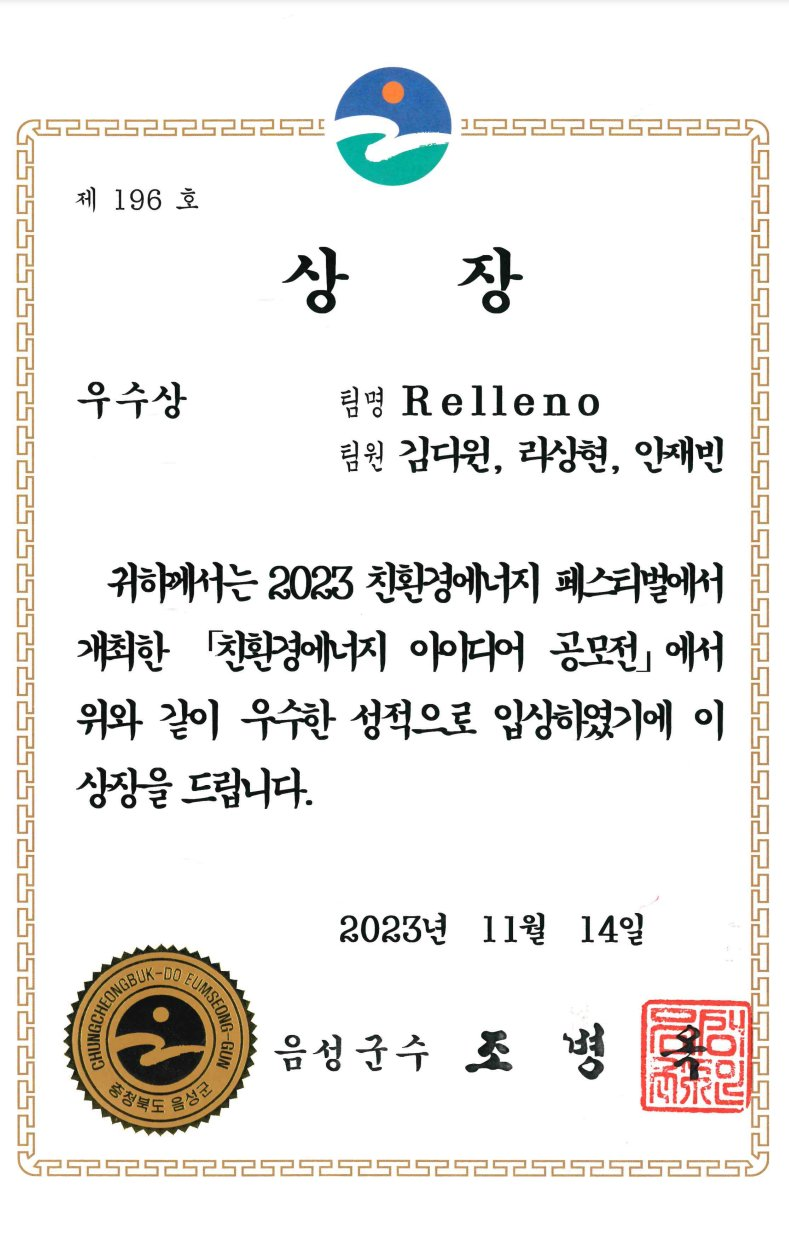
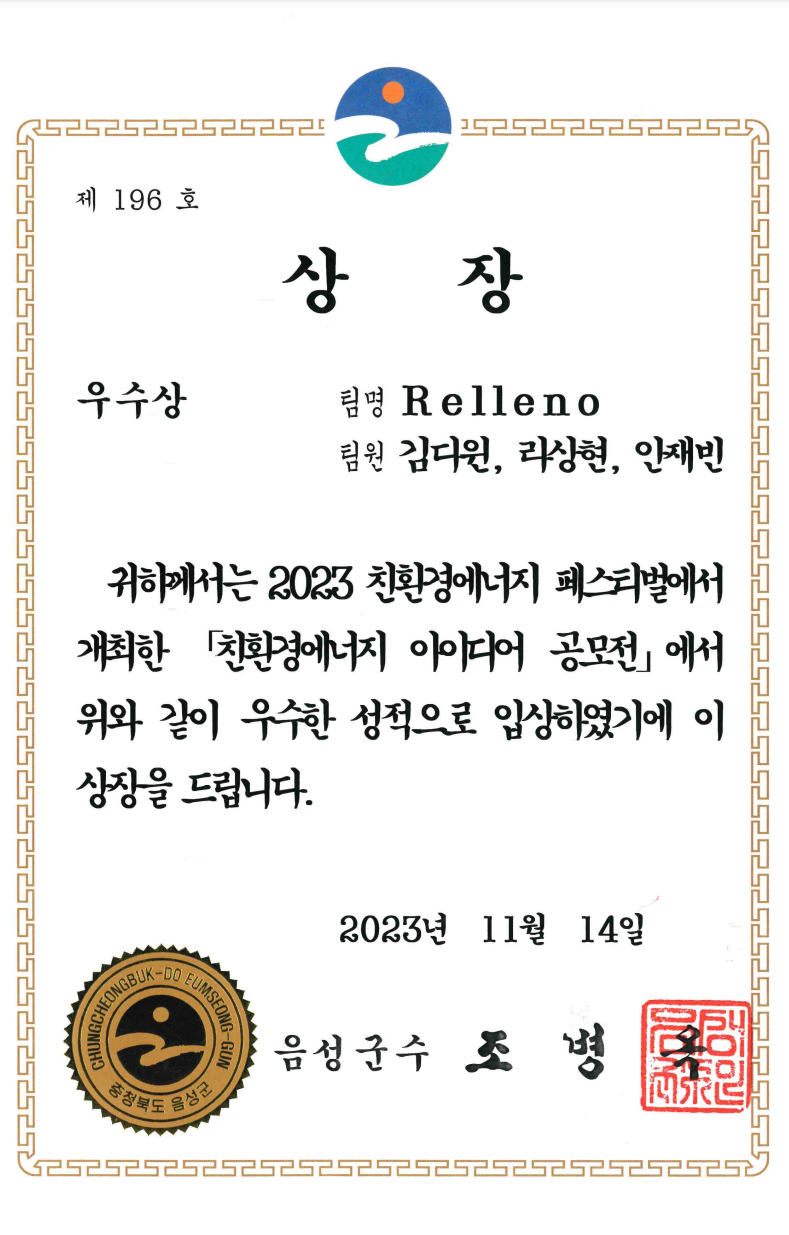
fix(awards): restore high-res certificate originals and implement native lightbox
- Restore uncompressed high-resolution certificate images from master assets
- Replace medium-zoom thumbnail stretching with accessible native dialog lightbox (award_lightbox.js)
- Maintain object-fit: contain in full-screen view for crisp readability of certificates
- Fix blurriness and compression artifacts when clicking on awards

Changed region(s): [[0.8213, 0.8308, 0.943, 0.8923], [0.2738, 0.8, 0.3042, 0.8308]]

diff --git a/assets/css/editorial_typography.css b/assets/css/editorial_typography.css
@@ -1843,18 +1843,62 @@ html[data-theme="dark"] {
   background: var(--global-code-bg-color, #f1f5f9);
   flex-shrink: 0;
   box-shadow: 0 2px 6px rgba(0, 0, 0, 0.05);
+  padding: 0;
+  display: block;
+  cursor: zoom-in;
 }
 
 .ed-entry__thumb img {
   width: 100%;
   height: 100%;
   object-fit: cover;
-  cursor: zoom-in;
+  object-position: top center;
+  display: block;
   transition: transform 0.2s ease;
 }
 
-.ed-entry__thumb img:hover {
+.ed-entry__thumb:hover img,
+.ed-entry__thumb:focus-visible img {
   transform: scale(1.05);
+}
+
+/* Full-resolution certificate lightbox (assets/js/award_lightbox.js) */
+.ed-lightbox {
+  border: 0;
+  padding: 0;
+  background: transparent;
+  max-width: 96vw;
+  max-height: 96vh;
+  overflow: visible;
+}
+
+.ed-lightbox::backdrop {
+  background: rgba(0, 0, 0, 0.85);
+}
+
+.ed-lightbox__img {
+  display: block;
+  max-width: 96vw;
+  max-height: 96vh;
+  width: auto;
+  height: auto;
+  object-fit: contain;
+  cursor: zoom-out;
+  background: #fff;
+  box-shadow: 0 8px 40px rgba(0, 0, 0, 0.5);
+}
+
+.ed-lightbox__close {
+  position: fixed;
+  top: 12px;
+  right: 18px;
+  z-index: 1;
+  border: 0;
+  background: transparent;
+  color: #fff;
+  font-size: 2.2rem;
+  line-height: 1;
+  cursor: pointer;
 }
 
 /* ------------------------------------------------------------

diff --git a/assets/js/award_lightbox.js b/assets/js/award_lightbox.js
@@ -1,0 +1,38 @@
+/* award_lightbox.js — Full-resolution certificate viewer for the News page.
+   Loads the original image into a native <dialog> at its natural resolution (object-fit: contain),
+   instead of scaling the 80x105 cropped thumbnail the way medium-zoom does. */
+(function () {
+  "use strict";
+
+  var dialog = document.getElementById("award-lightbox");
+  if (!dialog || typeof dialog.showModal !== "function") return;
+
+  var full = dialog.querySelector(".ed-lightbox__img");
+  var opener = null;
+
+  function open(btn) {
+    var thumb = btn.querySelector("img");
+    if (!thumb) return;
+    opener = btn;
+    full.removeAttribute("src");
+    full.alt = thumb.alt;
+    full.src = thumb.currentSrc || thumb.src;
+    dialog.showModal();
+  }
+
+  document.querySelectorAll("[data-award-zoom]").forEach(function (btn) {
+    btn.addEventListener("click", function () {
+      open(btn);
+    });
+  });
+
+  // Click on the backdrop, the image, or the close button dismisses.
+  dialog.addEventListener("click", function () {
+    dialog.close();
+  });
+
+  dialog.addEventListener("close", function () {
+    full.removeAttribute("src");
+    if (opener) opener.focus();
+  });
+})();

diff --git a/_pages/news.md b/_pages/news.md
@@ -48,14 +48,9 @@ nav_order: 6
               {% assign dp = a.date | remove: " " | split: "." %}
               <li class="ed-entry ed-entry--plain{% if a.img and a.img != '' %} ed-entry--with-thumb{% endif %}">
                 {% if a.img and a.img != "" %}
-                  <div class="ed-entry__thumb">
-                    <img
-                      src="{{ a.img | relative_url }}"
-                      alt="{{ a.title | escape }}"
-                      loading="lazy"
-                      data-zoomable
-                    >
-                  </div>
+                  <button type="button" class="ed-entry__thumb" data-award-zoom aria-label="{{ a.title | escape }} - view full size">
+                    <img src="{{ a.img | relative_url }}" alt="{{ a.title | escape }}" loading="lazy">
+                  </button>
                 {% endif %}
                 <div class="ed-entry__body">
                   <div class="ed-entry__title">{{ a.title | escape }}</div>
@@ -115,5 +110,11 @@ nav_order: 6
 
   </section>
   {% endif %}
+
+  <dialog class="ed-lightbox" id="award-lightbox" aria-label="Award certificate">
+    <button type="button" class="ed-lightbox__close" aria-label="Close">&times;</button>
+    <img class="ed-lightbox__img" alt="">
+  </dialog>
+  <script src="{{ '/assets/js/award_lightbox.js' | relative_url }}?v={{ site.time | date: '%s' }}"></script>
 
 </div>
